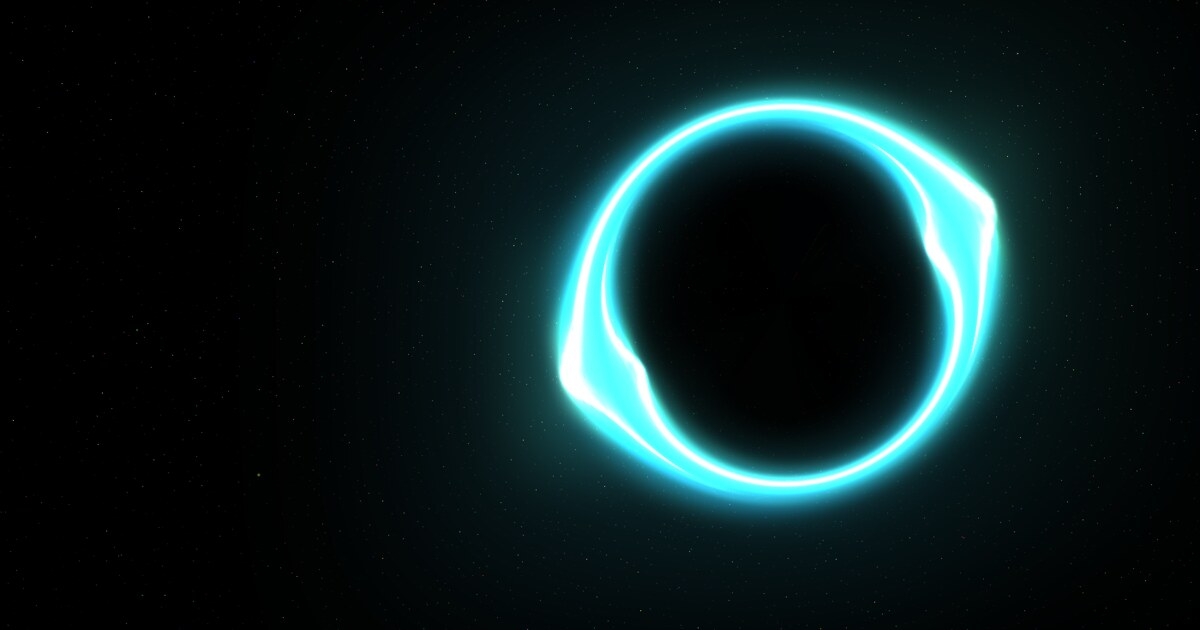
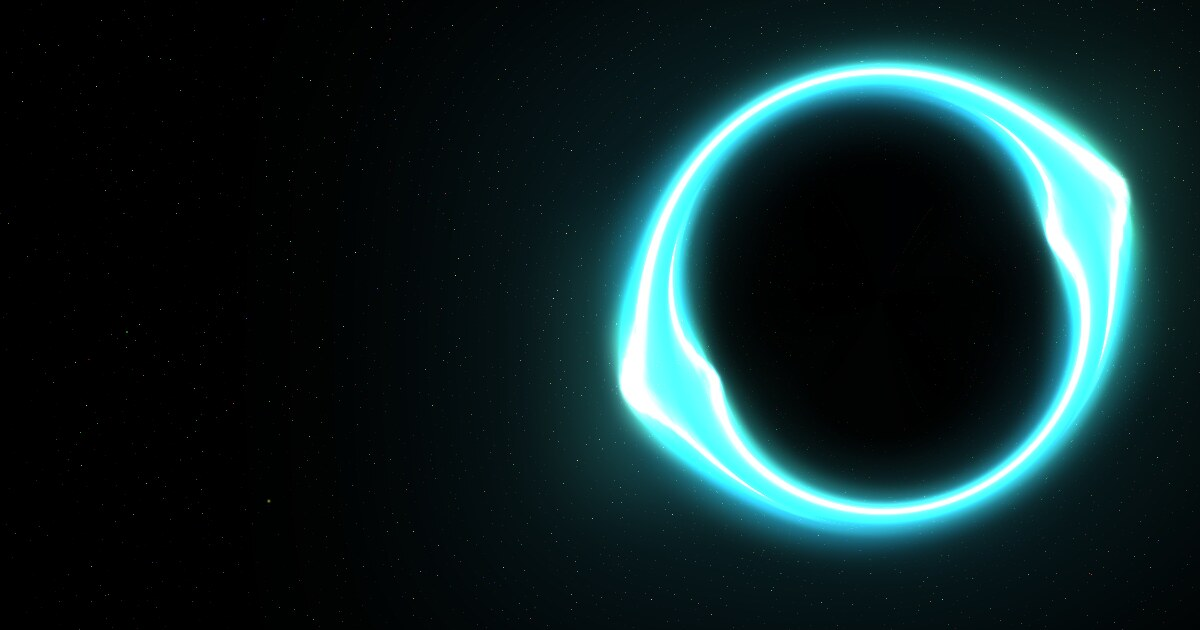
Refine both OG cards after review
Brand card: smaller core tagline; the bottom-right corner now carries
the hero's subtitle over two lines instead of the domain (platforms
show the domain beside the card anyway). Title cards: footer dropped,
hole recropped larger and tangent to the right edge, wordmark and
titles enlarged — title size now comes from a ladder that picks the
largest font whose wrapped height clears the wordmark, with in-word
breaking so no title can reach the hole. The bare /og.png caches for a
day instead of a year, so brand-card edits roll out without an edge
purge; titled URLs keep the immutable year.

Changed region(s): [[0.4317, 0.0302, 1.0, 0.9048]]

diff --git a/app/og.png/route.tsx b/app/og.png/route.tsx
@@ -22,10 +22,13 @@ const SIZE = { width: 1200, height: 630 }
 
 const FOREGROUND = "#f2f0ec"
 const MUTED = "rgba(242, 240, 236, 0.55)"
-const DIM = "rgba(242, 240, 236, 0.38)"
 
-// One year: the title is part of the URL, so a card never changes in place.
-const CACHE_CONTROL = "public, max-age=31536000, immutable"
+// Titled cards: the title is part of the URL, so a card never changes in
+// place — cache for a year. The bare brand card CAN change in place (its
+// content is edited without the URL changing), so give it a day instead;
+// a redesign then rolls out on its own instead of needing an edge purge.
+const CACHE_CONTROL_TITLED = "public, max-age=31536000, immutable"
+const CACHE_CONTROL_BRAND = "public, max-age=86400"
 
 const FONTS = [
   { name: "Geist", data: GEIST_SEMIBOLD, weight: 600 as const, style: "normal" as const },
@@ -58,8 +61,8 @@ function wordmark() {
       }}
     >
       {/* eslint-disable-next-line @next/next/no-img-element */}
-      <img src={LOGO_MARK} width={44} height={44} alt="" />
-      <div style={{ fontFamily: "Geist", fontWeight: 600, fontSize: 32, color: FOREGROUND }}>
+      <img src={LOGO_MARK} width={66} height={66} alt="" />
+      <div style={{ fontFamily: "Geist", fontWeight: 600, fontSize: 47, color: FOREGROUND }}>
         Parallax
       </div>
     </div>
@@ -89,45 +92,65 @@ function brandCard() {
           style={{
             fontFamily: "Geist",
             fontWeight: 300,
-            fontSize: 21,
-            letterSpacing: 7,
+            fontSize: 16,
+            letterSpacing: 5,
             color: MUTED,
             // Nudge left: letter-spacing trails the last glyph, and the hole's
             // dark core sits a touch left of the frame's center.
-            marginLeft: -12,
+            marginLeft: -9,
           }}
         >
           SECURED BY PHYSICS.
         </div>
       </div>
 
+      {/* The hero's subtitle over two lines. The domain is omitted — social
+          platforms display it next to the card anyway. */}
       <div
         style={{
           position: "absolute",
           bottom: 44,
           right: 56,
+          display: "flex",
+          flexDirection: "column",
+          alignItems: "flex-end",
           fontFamily: "Geist",
           fontWeight: 300,
-          fontSize: 21,
+          fontSize: 19,
+          lineHeight: 1.55,
           letterSpacing: 1,
-          color: DIM,
+          color: "rgba(242, 240, 236, 0.72)",
         }}
       >
-        parallaxprotocol.org
+        <div>An open source, censorship-resistant,</div>
+        <div>peer-to-peer, immutable network</div>
       </div>
     </div>
   )
 }
 
 function titleCard(title: string) {
-  const fontSize = title.length > 70 ? 36 : title.length > 40 ? 44 : 54
+  // Largest size whose estimated wrapped height keeps the centered block
+  // below the wordmark (block ≤ 394px → top ≥ 118). The 0.55em average glyph
+  // width is measured from Geist SemiBold renders of these cards.
+  const fontSize = (() => {
+    for (const size of [84, 76, 68, 62, 56, 50, 44]) {
+      const charsPerLine = Math.max(1, Math.floor(500 / (0.55 * size)))
+      const lines = Math.ceil(title.length / charsPerLine)
+      if (lines * 1.2 * size <= 394) return size
+    }
+    return 40
+  })()
 
   return (
     <div style={{ width: "100%", height: "100%", display: "flex", background: "#000" }}>
       {background(OG_BLACKHOLE_RIGHT)}
       {wordmark()}
 
-      {/* Title in the dark field left of the hole. */}
+      {/* Title in the dark field left of the hole, centered on the card's
+          full height. The column is capped at 500px (the hole's glow starts
+          at ~600px) and the font tiers keep even a max-length title short
+          enough to clear the wordmark, so a wrapped title reaches neither. */}
       <div
         style={{
           position: "absolute",
@@ -141,45 +164,19 @@ function titleCard(title: string) {
       >
         <div
           style={{
+            maxWidth: 500,
             fontFamily: "Geist",
             fontWeight: 600,
             fontSize,
             lineHeight: 1.2,
             color: FOREGROUND,
+            wordBreak: "break-word",
           }}
         >
           {title}
         </div>
       </div>
 
-      <div
-        style={{
-          position: "absolute",
-          bottom: 44,
-          left: 56,
-          fontFamily: "Geist",
-          fontWeight: 300,
-          fontSize: 19,
-          letterSpacing: 4,
-          color: MUTED,
-        }}
-      >
-        SECURED BY PHYSICS.
-      </div>
-      <div
-        style={{
-          position: "absolute",
-          bottom: 44,
-          right: 56,
-          fontFamily: "Geist",
-          fontWeight: 300,
-          fontSize: 19,
-          letterSpacing: 1,
-          color: DIM,
-        }}
-      >
-        parallaxprotocol.org
-      </div>
     </div>
   )
 }
@@ -195,6 +192,6 @@ export function GET(request: NextRequest) {
   return new ImageResponse(title ? titleCard(title) : brandCard(), {
     ...SIZE,
     fonts: FONTS,
-    headers: { "Cache-Control": CACHE_CONTROL },
+    headers: { "Cache-Control": title ? CACHE_CONTROL_TITLED : CACHE_CONTROL_BRAND },
   })
 }

diff --git a/assets/og/README.md b/assets/og/README.md
@@ -8,9 +8,10 @@ text-free; the hero's tagline, vignette, and grain are DOM overlays.
 
 - `blackhole.jpg` — hole centered; background of the site-wide brand card.
   Crop: `magick <capture>.png -crop 1524x800+218+112 +repage -resize 1200x630! -quality 88 -strip blackhole.jpg`
-- `blackhole-right.jpg` — hole in the right two-thirds, dark space on the left
-  for the page title; background of the per-page title cards.
-  Crop: `magick <capture>.png -crop 1400x735+47+144 +repage -resize 1200x630! -quality 88 -strip blackhole-right.jpg`
+- `blackhole-right.jpg` — hole filling ~95% of the height, tangent to the
+  right edge, dark space on the left for the page title; background of the
+  per-page title cards.
+  Crop: `magick <capture>.png -crop 1200x630+80+197 +repage -quality 88 -strip blackhole-right.jpg`
 
 The crop offsets assume the hole's glow is centered near (980, 512) in the
 1920×993 capture; re-derive them if the hero's camera or framing changes.
